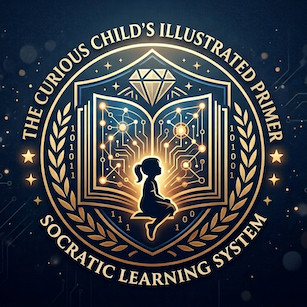
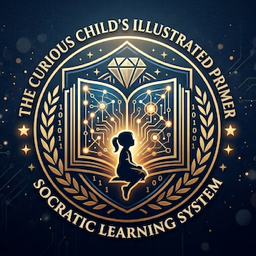
fix(website): final-review fixes — image weight, a11y, polish
- illustration: 6.2 MB 2048px PNG -> 186 KB 840px JPEG, intrinsic
  width/height + loading=lazy (no layout shift, below-fold lazy load)
- emblem: downscaled 1024px -> 256px (228 KB -> 161 KB)
- add missing h2 between h1 and card h3s on roadmap + get-involved
- badge-progress text #8a6d1f -> #80651d (AA contrast on #fdf3dc)
- replace the site's only inline style with a .prose + .grid rule
- og:type article on get-involved for subpage consistency

diff --git a/website/style.css b/website/style.css
@@ -159,6 +159,8 @@ h3 { font-size: 1.15rem; font-weight: normal; margin: 0 0 8px; }
   grid-template-columns: repeat(auto-fit, minmax(260px, 1fr));
 }
 
+.prose + .grid { margin-top: 24px; }
+
 .card {
   background: var(--card);
   border: 1px solid var(--hairline);
@@ -217,7 +219,7 @@ h3 { font-size: 1.15rem; font-weight: normal; margin: 0 0 8px; }
 }
 
 .badge-done { background: #e4efe4; color: #2e5d2e; border: 1px solid #bcd6bc; }
-.badge-progress { background: #fdf3dc; color: #8a6d1f; border: 1px solid #ecd9a4; }
+.badge-progress { background: #fdf3dc; color: #80651d; border: 1px solid #ecd9a4; }
 .badge-ahead { background: #eef0f5; color: #555c6e; border: 1px solid #d8dce6; }
 
 .phase {

diff --git a/website/get-involved.html b/website/get-involved.html
@@ -11,7 +11,7 @@
 <meta property="og:description" content="For educators, researchers, funders, hardware partners, translators, and developers.">
 <meta property="og:image" content="https://primer-ai.org/assets/banner.png">
 <meta property="og:url" content="https://primer-ai.org/get-involved">
-<meta property="og:type" content="website">
+<meta property="og:type" content="article">
 <meta name="twitter:card" content="summary_large_image">
 <link rel="stylesheet" href="style.css">
 </head>
@@ -38,6 +38,7 @@
 </div>
 
 <section class="section">
+  <h2>Four ways in</h2>
   <div class="grid">
     <div class="card">
       <h3>Educators &amp; researchers</h3>

diff --git a/website/technology.html b/website/technology.html
@@ -50,7 +50,7 @@
   <div class="prose">
     <p>The pedagogical engine — the part that decides whether this moment calls for a guiding question, scaffolding, or a comprehension probe — is completely decoupled from the language model behind it. Swapping the model is a configuration choice, not a rewrite. The same engine runs against:</p>
   </div>
-  <div class="grid" style="margin-top: 24px;">
+  <div class="grid">
     <div class="card">
       <h3>Cloud models</h3>
       <p>Anthropic's Claude or any OpenAI-compatible provider, for the highest conversation quality where connectivity and trust allow.</p>

diff --git a/website/vision.html b/website/vision.html
@@ -44,7 +44,7 @@
     <p>We are not building a tutor app with a mascot. We are building the closest real-world counterpart to that book: one child, one companion, a long conversation that spans years.</p>
   </div>
   <figure class="figure">
-    <img src="assets/illustration.png" alt="Illustration of an ornate storybook glowing above a tablet device">
+    <img src="assets/illustration.jpg" width="840" height="840" loading="lazy" alt="Illustration of an ornate storybook glowing above a tablet device">
     <figcaption>The Primer: a storybook's patience on a device a family can own.</figcaption>
   </figure>
 </section>

diff --git a/website/roadmap.html b/website/roadmap.html
@@ -38,6 +38,7 @@
 </div>
 
 <section class="section">
+  <h2>The phases</h2>
   <div class="phase">
     <h3>Phase 0 — Proof of pedagogy <span class="badge badge-done">Complete</span></h3>
     <p>A text-mode Primer that holds a genuine Socratic conversation on any computer. The exit test — a 15-minute conversation that asks more than it answers, catches parroting, suggests breaks, and remembers last time — is met.</p>